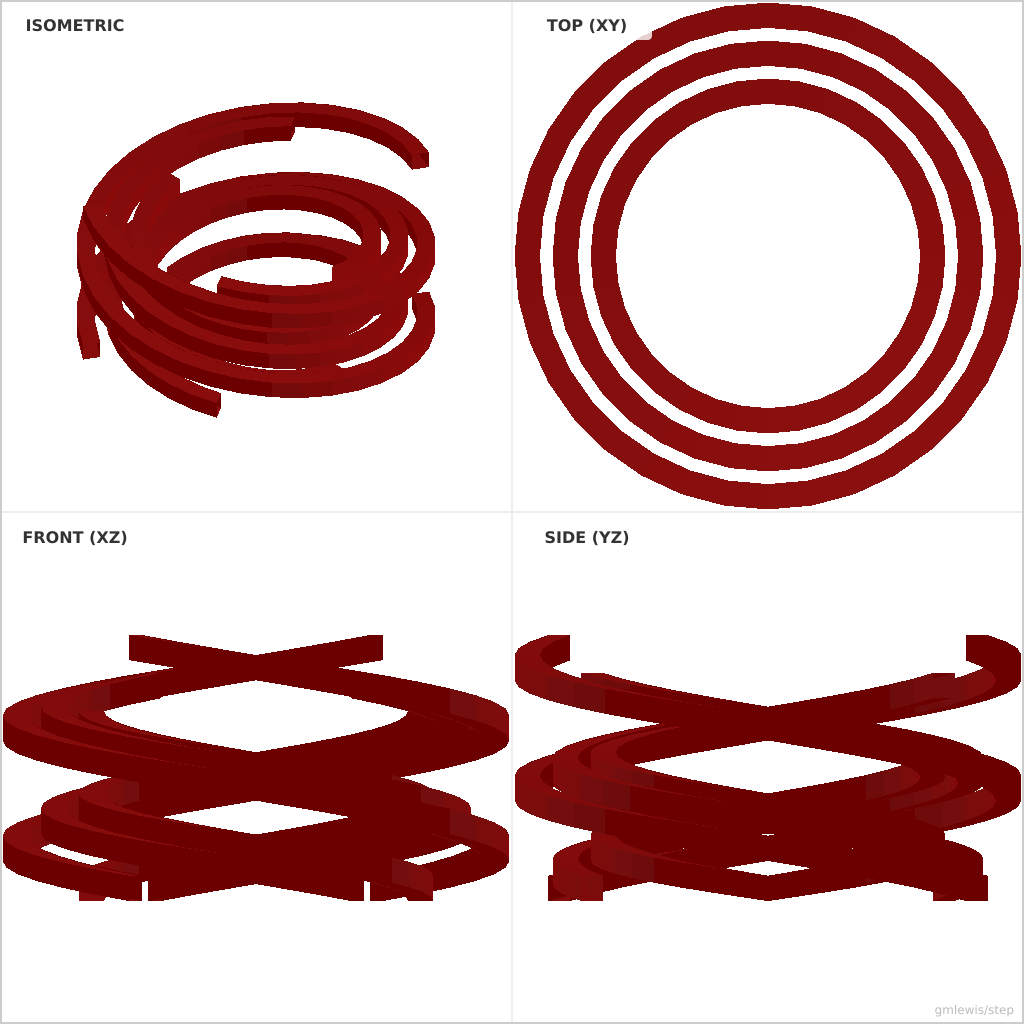
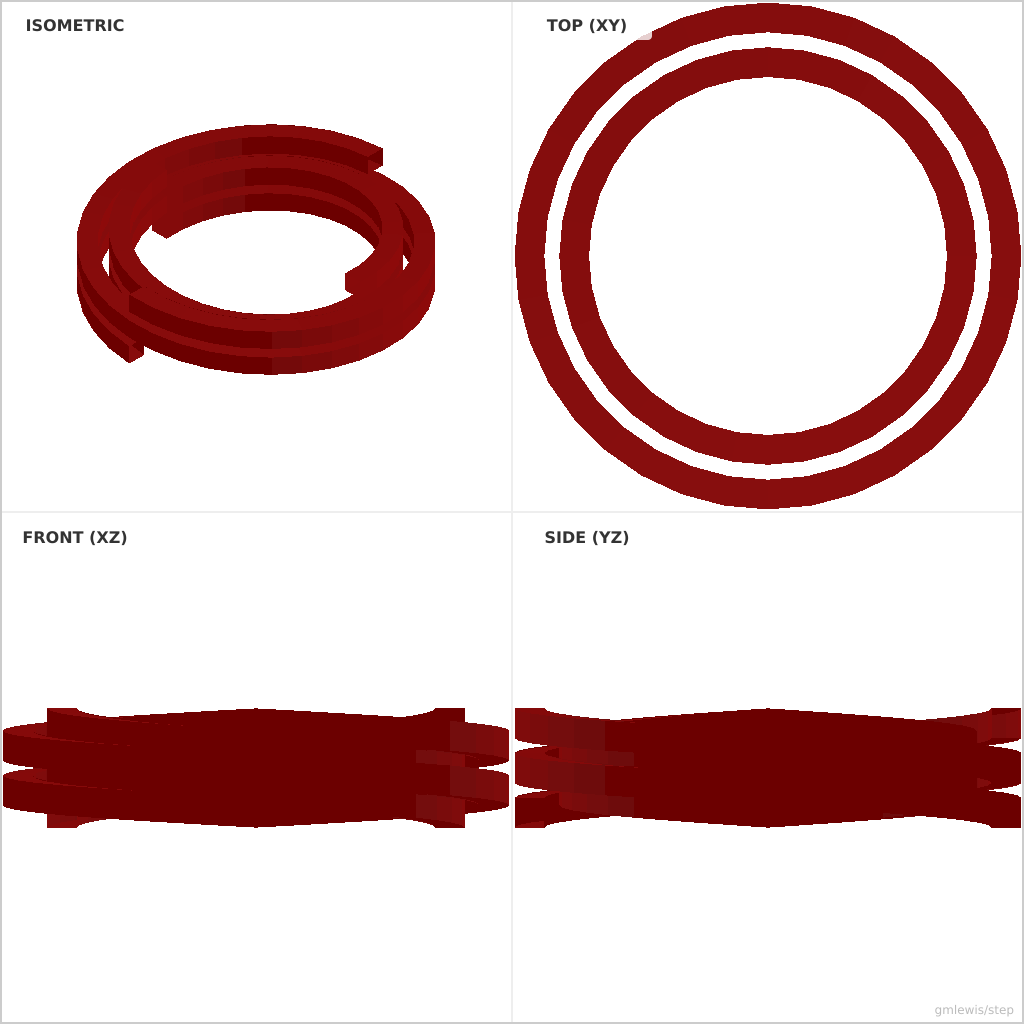
Fix height bug

diff --git a/scripts/manage_examples.py b/scripts/manage_examples.py
@@ -21,7 +21,7 @@ SUITE = {
     "09": [["--baseWidth", "60", "--baseLength", "80"], ["--dovetailAngle", "20", "--dovetailHeight", "10"], ["--clearance", "0.5"]],
     "10": [["--sides", "6", "--holeSides", "6"], ["--sides", "5", "--holeSides", "3", "--diameter", "25"], ["--sides", "8", "--holeSides", "4", "--holeRotation", "45", "--diameter", "40"]],
     "11": [["--rows", "2", "--cols", "4"], ["--rows", "1", "--cols", "5", "--spacing", "8.5", "--tolerance", "0.05"], ["--rows", "3", "--cols", "3", "--spacing", "15", "--height", "25"]],
-    "12": [["--numPairs", "3", "--wireGap", "0.5", "--vertTurns", "1"], ["--numPairs", "10", "--vertTurns", "5"]],
+    "12": [["--nocage", "--numPairs", "2", "--wireGap", "0.5", "--vertTurns", "1"], ["--numPairs", "10", "--vertTurns", "10"]],
     "13": [["--length", "60", "--width", "70"], ["--length", "100", "--width", "80", "--height", "15"], ["--width", "50", "--height", "12"]],
     "14": [["--length", "100"], ["--length", "150", "--width", "50"], ["--length", "80", "--height", "12"]],
     "15": [["--boltDiameter", "8", "--clearance", "0.1"], ["--boltDiameter", "10", "--interference", "0.1", "--clearanceStep", "0.1", "--stepCount", "3"]],

diff --git a/examples/12-bifilar-electromagnet/README.md b/examples/12-bifilar-electromagnet/README.md
@@ -32,7 +32,7 @@ limitations under the License.
 
 ### Variant 1
 
-Command line: `./run-example.sh 12 --numPairs 3 --wireGap 0.5 --vertTurns 1`
+Command line: `./run-example.sh 12 --numPairs 2 --wireGap 0.5 --vertTurns 1`
 
 ![](preview-1.png)
 
